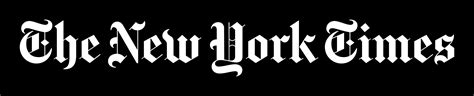
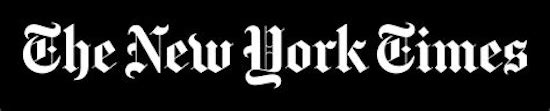
Better layout

diff --git a/index.html b/index.html
@@ -60,13 +60,15 @@
 				<h1>Highlights</h1>
 			</div>
             <a href="https://www.nytimes.com/2024/08/19/arts/design/pst-space-nasa-astronomy-art-jet-propulsion.html">
-                <div class="panel rowtile" id="nytimes-preview">
+                <div class="panel rowtile">
+                    <img src="img/publications/nytimes.png" style="padding: 20px 0px 20px 0px;"/>
                     <h1>‘PST Art’ Lifts Off</h1>
                     <h6>Interview with Rishi Verma. 'Sound collages and mechanical grass are being created with the Jet Propulsion Laboratory, in a collaboration to unlock creative pathways that “are just not open."'</h6>
                 </div>
             </a>
             <a href="https://www.forbes.com/sites/lesliekatz/2024/09/13/nasa-and-artists-team-up-to-imagine-humanitys-future-beyond-earth/">
                 <div class="panel rowtile" id="forbes-preview">
+                    <img src="img/publications/forbes-preview.jpg" style="padding: 20px 0px 20px 0px;"/>
                     <h1>NASA JPL And Artists Team Up To Imagine Humanity’s Future Beyond Earth</h1>
                     <h6>Overview of 'Blended Worlds: Experiments in Interplanetary Imagination' and Rishi's contributions.</h6>
                 </div>
@@ -75,6 +77,7 @@
 				<div class="panel rowtile" id="pbsnewshour-preview">
 					<div class="row">
 						<div class="small-10 columns">
+                            <img src="img/talks/pbs-newshour.png"/>
 							<h1>Art and Science Collide</h1>
 							<h6>PBS Newshour Interview</h6>
 							<h6><em>Senior PBS Newshour arts correspondent Jeffrey Brown sits down with Rishi Verma and David Bowen, to discuss the Blended Worlds art piece "mars telepresent wind".</em></h6>
@@ -86,7 +89,8 @@
 				<div class="panel rowtile" id="linuxfoundation-preview">
 					<div class="row">
 						<div class="small-10 columns">
-							<h1>Linux Foundation Open Summit</h1>
+                            <img src="img/talks/linuxfoundation-preview.png" style="padding: 10px 0px 10px 0px;"/>
+							<h1>Open Summit 2023</h1>
 							<h6>Keynote Speaker</h6>
 							<h6><em>The Open Source Way to Develop, Iterate, and Automate Your Software Lifecycle
 									Standards: Lessons from NASA’s Jet Propulsion Laboratory</em></h6>
@@ -98,7 +102,8 @@
 				<div class="panel rowtile" id="scalelinux-preview">
 					<div class="row">
 						<div class="small-10 columns">
-							<h1>Southern California Linux Expo (SCaLE)</h1>
+                            <img src="img/talks/scalelinux-preview.png"/>
+							<h1>Southern California Linux Expo 2024</h1>
 							<h6>Speaker</h6>
 							<h6><em>The Open Source Way to Standards Development: A NASA-JPL Approach to Software Excellence</em></h6>
 						</div>

diff --git a/css/main.css b/css/main.css
@@ -195,18 +195,25 @@ img.tile-logo {
 
 /************** Talks panels **************/
 #pbsnewshour-preview {
-	background-image: url('../img/talks/pbs-newshour.jpg');
 	background-color: black;
 }
 
 #scalelinux-preview {
-	background-image: url('../img/talks/scalelinux-preview.png');
-	background-color: black;
+	background-color: white;
+}
+#scalelinux-preview h1,
+#scalelinux-preview h6 {
+	color: black;
+	text-shadow: 2px 2px 3px rgba(255, 255, 255, 0.7); /* add a dark shadow for light backgrounds */
 }
 
 #linuxfoundation-preview {
-	background-image: url('../img/talks/linuxfoundation-preview.png');
-	background-color: black;
+	background-color: white;
+}
+#linuxfoundation-preview h1,
+#linuxfoundation-preview h6 {
+	color: black;
+	text-shadow: 2px 2px 3px rgba(255, 255, 255, 0.7); /* add a dark shadow for light backgrounds */
 }
 
 #arbejdernes-preview {
@@ -256,7 +263,6 @@ img.tile-logo {
 }
 
 #forbes-preview {
-	background-image: url('../img/publications/forbes-preview.jpg');
 	background-color: white;
 }
 #forbes-preview h1,
